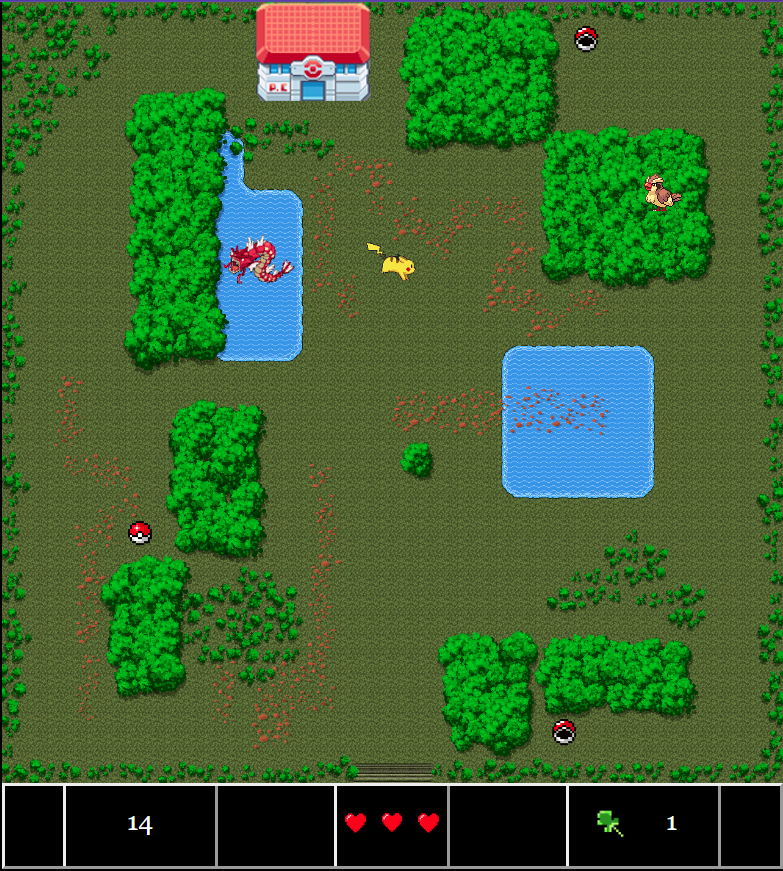
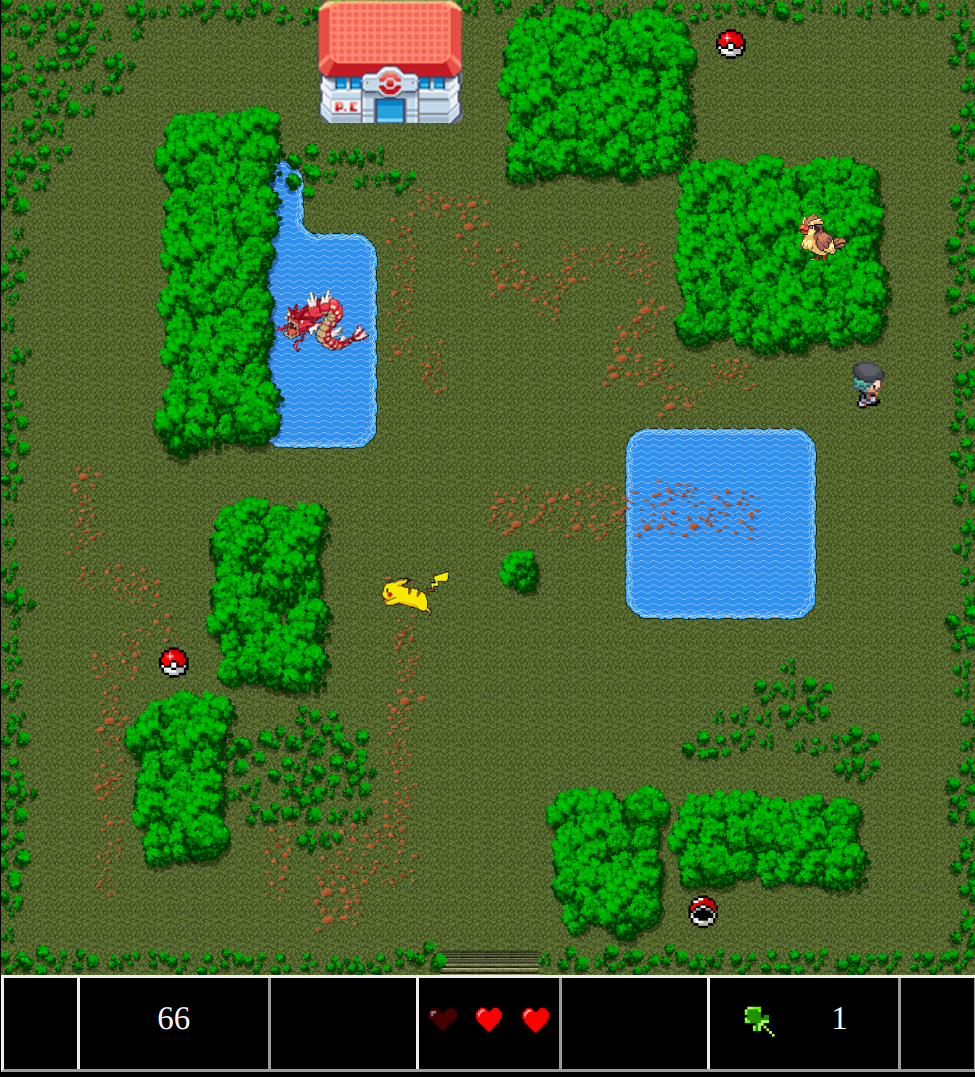
Update README.md

diff --git a/index.html b/index.html
@@ -2,7 +2,7 @@
 <html lang="en">
 <head>
     <meta name="author" content="Ariadna, Carolina, Juan">
-    <meta name="description" content="CONTENIDO">
+    <meta name="description" content="GAME">
     <meta http-equiv="Content-Type" content="text/html; charset=UTF-8">
     <meta http-equiv="X-UA-Compatible" content="IE=edge">
     <meta name="viewport" content="width=device-width, initial-scale=1.0">

diff --git a/README.md b/README.md
@@ -8,6 +8,8 @@ Pikachu's Adventure is a game inspired by The Legend of Zelda (NES) and set in a
 
 The game is played from a top-down perspective, similar to The Legend of Zelda. You control Pikachu using either the arrow keys or the WASD keys to move around the map. The objective is to search for the badge hidden in one of three Pokeball chests scattered throughout the map. Once you have found the badge, a Pokemon Center will appear on the map.
 
+While searching for the badge, be careful not to collide with the enemy Pokemon on the map. Each collision with the enemy will cause you to lose a heart. If you lose all three hearts, the game will be over.
+
 You must make it to the Pokemon Center within one minute to win the game. If you fail to find the badge within one minute or fail to make it to the Pokemon Center in time, you will lose the game.
 
 ## Installation
